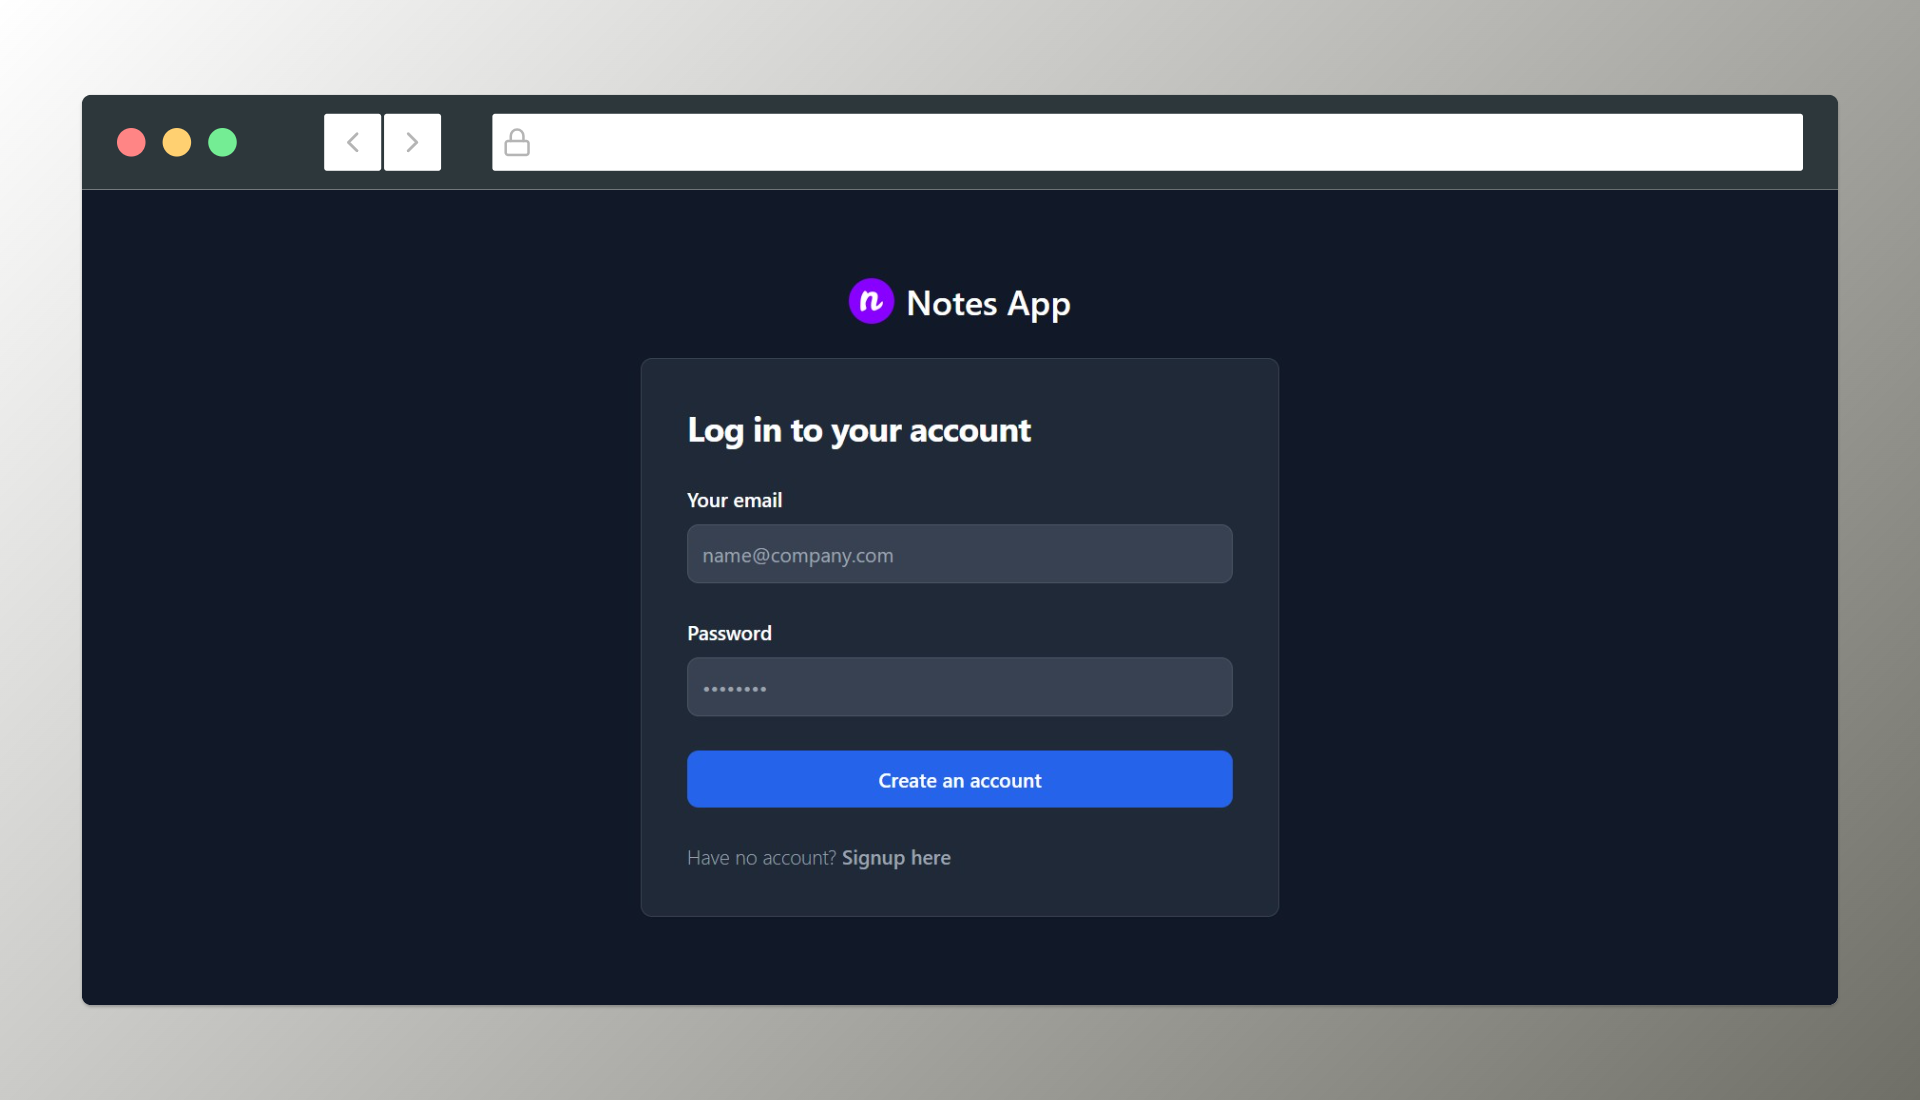
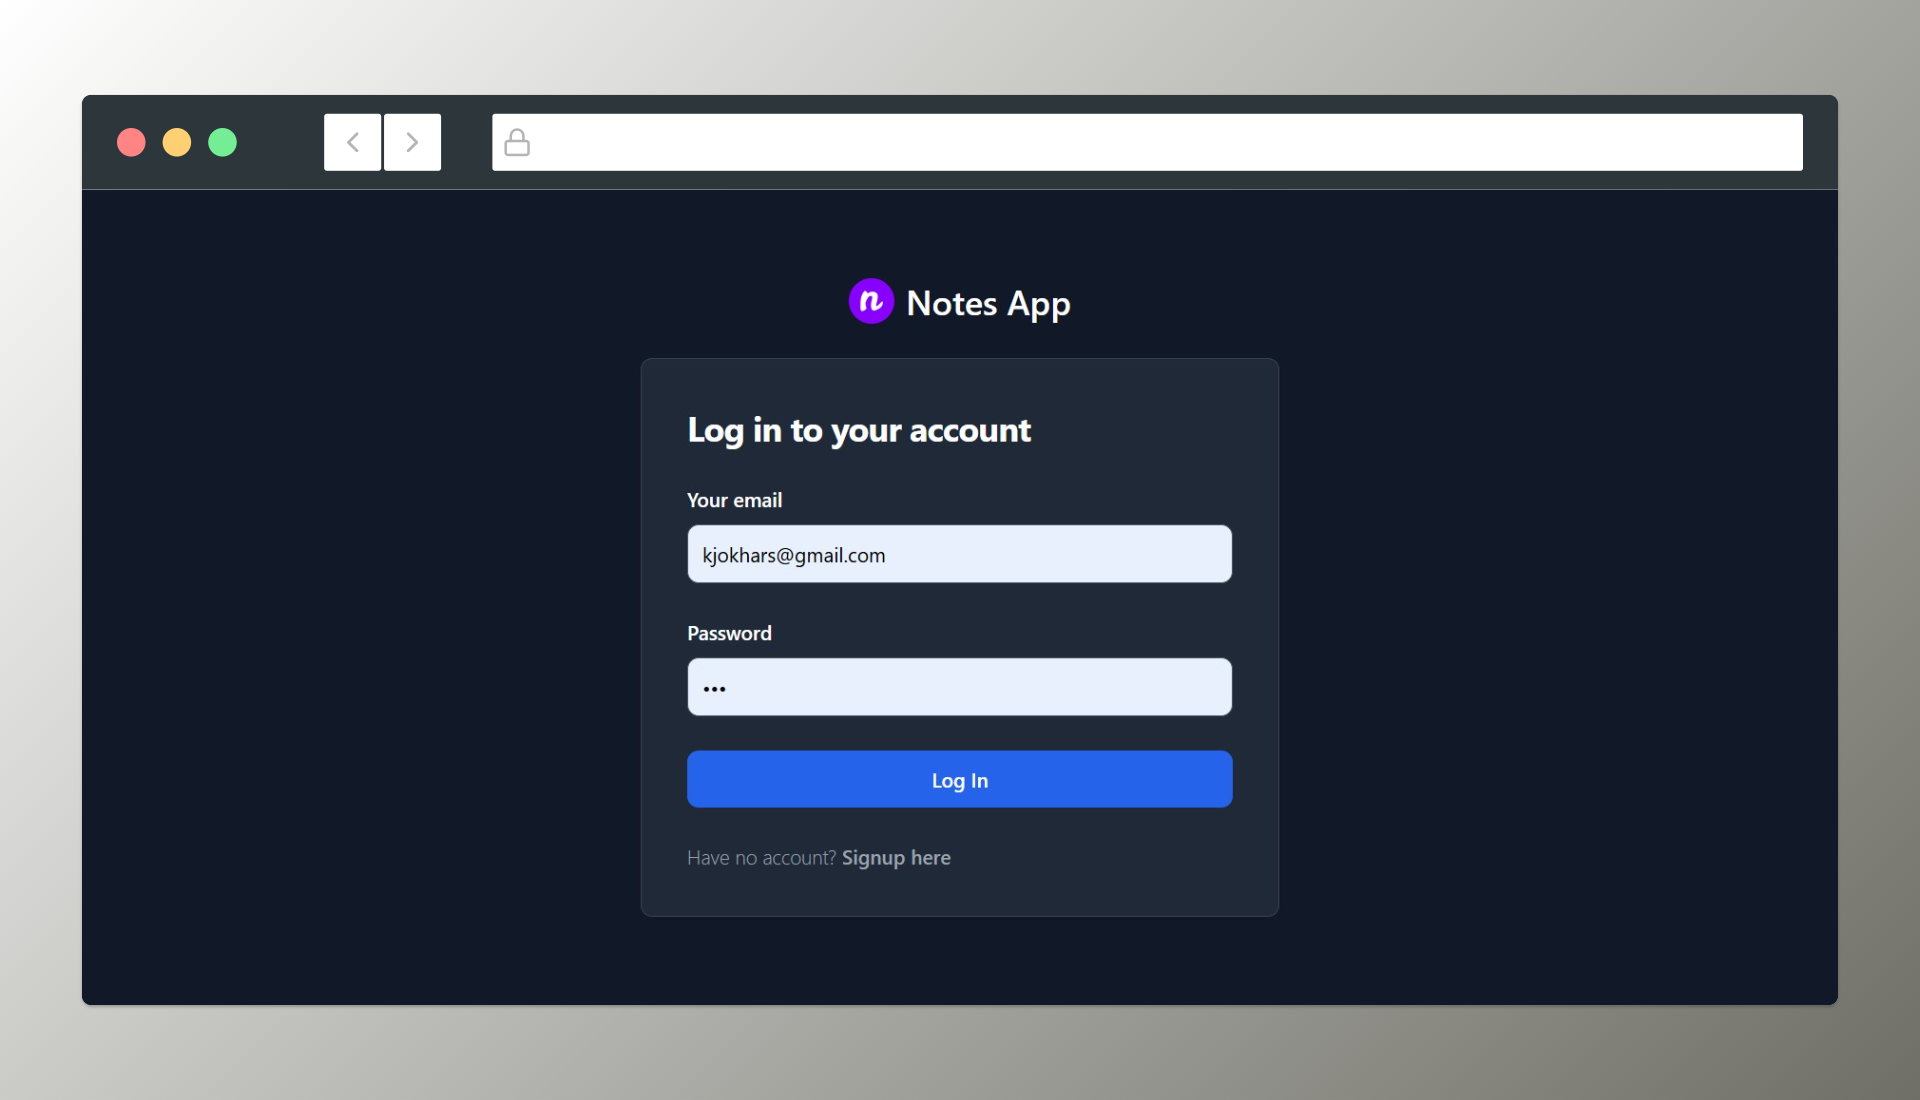
changed login submit btn text to log in

Changed region(s): [[0.3438, 0.4636, 0.6562, 0.5564], [0.3438, 0.5873, 0.6562, 0.6491], [0.4688, 0.68, 0.5312, 0.7418]]

diff --git a/templates/login.html b/templates/login.html
@@ -37,8 +37,7 @@
                     </div>
                     
                     <button type="submit"
-                    class="w-full text-white bg-blue-700 hover:bg-blue-800 focus:ring-4 focus:ring-blue-300 font-medium rounded-lg text-sm px-5 py-2.5 me-2 mb-2 dark:bg-blue-600 dark:hover:bg-blue-700 focus:outline-none dark:focus:ring-blue-800">Create
-                        an account</button>
+                    class="w-full text-white bg-blue-700 hover:bg-blue-800 focus:ring-4 focus:ring-blue-300 font-medium rounded-lg text-sm px-5 py-2.5 me-2 mb-2 dark:bg-blue-600 dark:hover:bg-blue-700 focus:outline-none dark:focus:ring-blue-800">Log In</button>
                     <p class="text-sm font-light text-gray-500 dark:text-gray-400">
                         Have no account? <a href="/signup"
                             class="font-medium text-primary-600 hover:underline dark:text-primary-500">Signup here</a>
